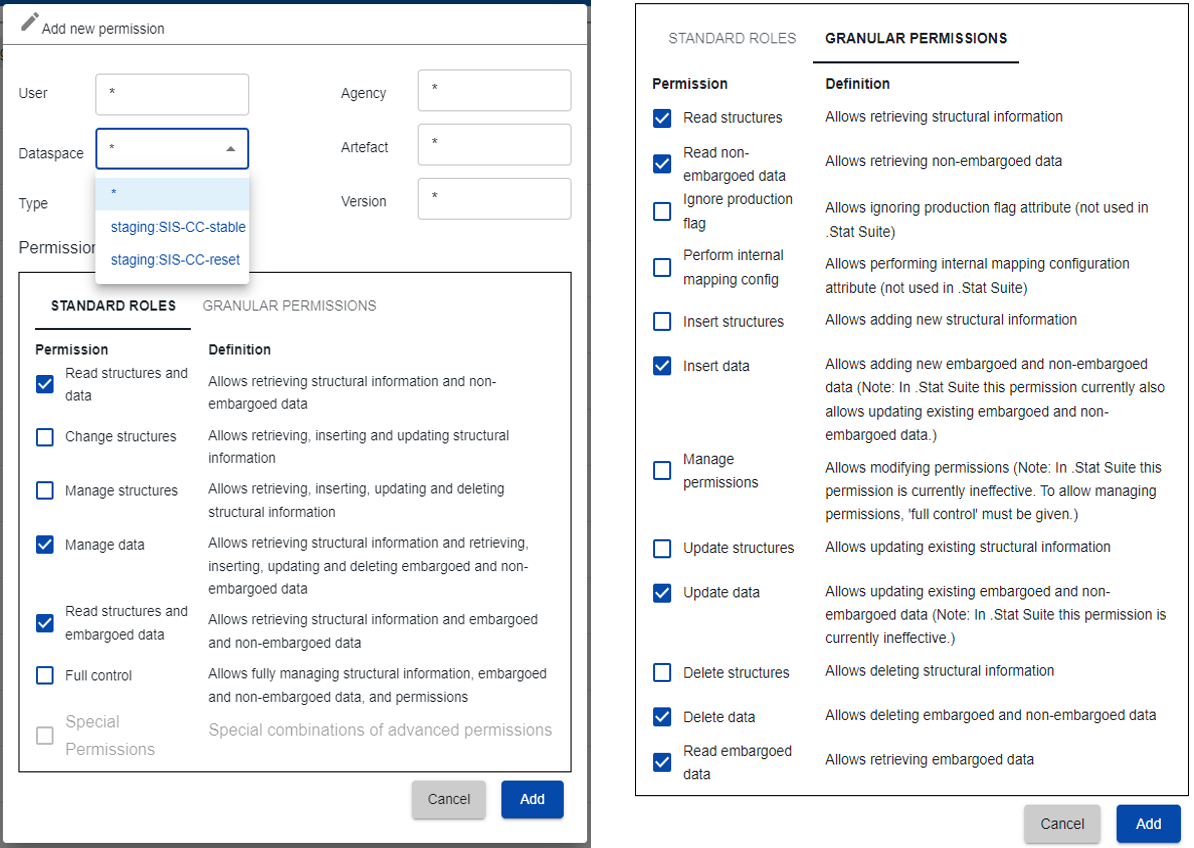
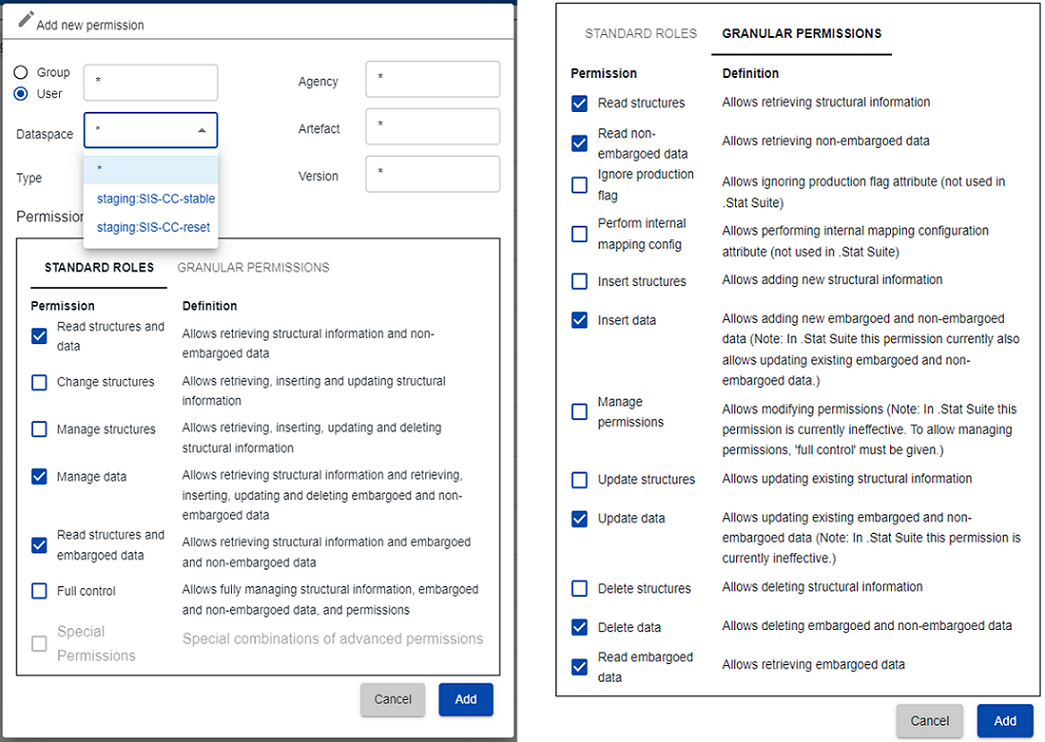
Feature  dlm group perm newbranch

diff --git a/content/using-dlm/manage-permissions.md b/content/using-dlm/manage-permissions.md
@@ -24,6 +24,7 @@ keywords: [
 
 > *Version history:*  
 > Allow to manage permissions on specific external spaces since [December 20, 2023 Release .Stat Suite JS yay](https://sis-cc.gitlab.io/dotstatsuite-documentation/changelog/#december-20-2023)  
+> Create of new Group since [December 20, 2023 Release .Stat Suite JS yay](/dotstatsuite-documentation/changelog/#december-20-2023)  
 > Introduced in [December 5, 2022 Release .Stat Suite JS spin](https://sis-cc.gitlab.io/dotstatsuite-documentation/changelog/#december-5-2022)
 
 ### Manage permissions overview
@@ -31,11 +32,11 @@ The Data Lifecycle Manager provides a user-friendly graphical interface to **man
 
 The DLM 'Manage permissions' menu item is shown only when the authenticated user has any "Manage permissions" rights for at least one internal data space. It is also possible to allow managing permission for a specific externally defined data space: see [how to configure the option](https://sis-cc.gitlab.io/dotstatsuite-documentation/configurations/dlm-configuration/#allow-managing-permissions-on-a-specific-external-space).
 
-The 'Manage permissions' page shows a list of user permissions that the authenticated user is allowed to view and/or manage.
+The 'Manage permissions' page shows a list of user or group permissions that the authenticated user is allowed to view and/or manage.
 
 Permissions are listed with the following information in columns:
 - **ID:** the permission ID as generated by the *Authorization Management* service
-- **User:** the user email address or group name preceded by a user or group icon
+- **Group/User:** the user email address or group name preceded by a user or group icon
 - **Dataspace:** any internal dataspace
 - **Type:** any *SDMX* artefact type
 - **Agency:** any *SDMX* structure maintenance agency ID
@@ -44,11 +45,11 @@ Permissions are listed with the following information in columns:
 - **Permission:** the name of the corresponding granular permission or standard role; otherwise it displays "Special permissions"
 - **Actions:** icons for "Edit" and "Delete" a permission
 
-If one permission listed applies to all values of the corresponding parameters (User, Dataspace, Type, Agency, Artefact, or Version), then it is mentioned as **'*' (ANY)**.
+If one permission listed applies to all values of the corresponding parameters (Group/User, Dataspace, Type, Agency, Artefact, or Version), then it is mentioned as **'*' (ANY)**.
 
 The multi-selection filters on the left side of the list are generated depending on the content of the list and allow to filter by:
 - space
-- user/group
+- group/user
 - agency
 - permission type
 
@@ -76,7 +77,7 @@ Clicking on "Cancel" at the footer of the window closes it.
 ### Add a new permission
 The button "Add new permission" on the top right corner of the permission page allows creating a new permission. Clicking on it will open the "Add new permission" window, similarly to the "View permission" window with empty fields.  
 The window shows the following editable fields:
-- **User:** text field for user email address or group name
+- **Group/User:** a radio button to select whether the new permission is for a single user or a group. By default, it is set to 'Group'. Next to it is a text field for user email address or group name
 - **Dataspace:** dropdown list of internal dataspaces for which the user has "Manage permission" rights
 - **Type:** dropdown list of *SDMX* artefact types
 - **Agency:** text field for any *SDMX* structure maintenance agency ID
